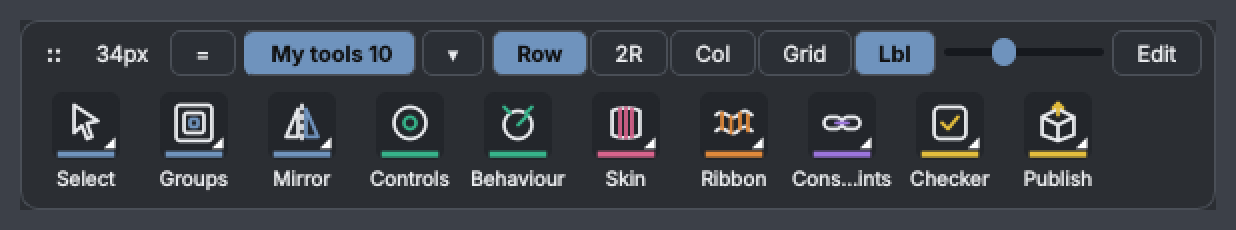
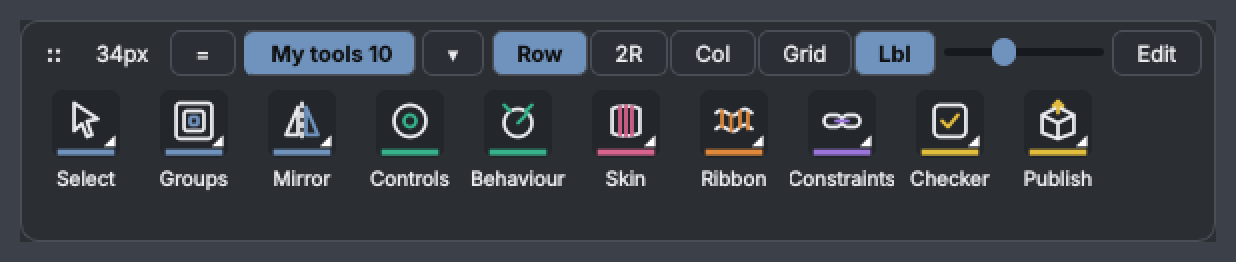
5.7.9 (in progress): narrower bar column, names on two lines, strip beside a column (A/B)
Claude-Session: https://claude.ai/code/session_01XEQS6GUEdNtS6ejnva6duF

diff --git a/gus_rigtool/newui/favourites.py b/gus_rigtool/newui/favourites.py
@@ -577,7 +577,7 @@ class FavBar(QtWidgets.QWidget):
         root.setSpacing(5)
         shape = self.shape()
         lab = self.labels()                              # a column: one even width for everything (5.7.9, Gus)
-        self.rail = max((max(self.wanted_size() + 6, 52) if lab else self.wanted_size() + 4), 76)
+        self.rail = max((max(self.wanted_size() + 6, 52) if lab else self.wanted_size() + 6), 50)
         self.chrome = self._chrome(shape)
         root.addWidget(self.chrome)
         self.tiles = QtWidgets.QWidget()
@@ -640,8 +640,9 @@ class FavBar(QtWidgets.QWidget):
             shown.append(current())
         for name in shown:
             pill = self._pill(name)
-            if col:
-                pill.setText(name[:7] + "…" if len(name) > 8 else name)
+            if col:                                       # the mock-up's short pills (BLK, POL...)
+                words = [w for w in name.replace("&", " ").split() if w]
+                pill.setText("".join(w[0] for w in words).upper()[:3] if len(words) > 1 else name[:3].upper())
             pl.addWidget(pill)
         more = self._small("▾", "Every profile: All tools, one per area, yours - and New / Rename / Delete",
                            lambda: _exec(profile_menu(self), QtGui.QCursor.pos()))
@@ -653,11 +654,12 @@ class FavBar(QtWidgets.QWidget):
         ml.setSpacing(1)
         self.mode_buttons = {}
         for i, (key, text, tip) in enumerate(LAYOUTS):
-            b = self._small(text, tip, lambda k=key: self.set_shape(k), checkable=True)
+            b = self._small({"row": "R", "2r": "2", "col": "C", "grid": "G"}[key] if col else text, tip,
+                            lambda k=key: self.set_shape(k), checkable=True)
             b.setChecked(key == shape)
             self.mode_buttons[key] = b
             ml.addWidget(b, i // 2 if col else 0, i % 2 if col else i)
-        lb = self._small("Lbl", "Names under the tiles", lambda: (self._save(labels=not self.labels()),
+        lb = self._small("Aa" if col else "Lbl", "Names under the tiles", lambda: (self._save(labels=not self.labels()),
                                                                  self.build()), checkable=True)
         lb.setChecked(self.labels())
         ml.addWidget(lb, 2 if col else 0, 0 if col else 5, 1, 2 if col else 1)
@@ -676,7 +678,8 @@ class FavBar(QtWidgets.QWidget):
         self.slider.sliderReleased.connect(lambda: self.set_size(self.slider.value()))
         lay.addWidget(self.slider)
         if editable():
-            lay.addWidget(self._small("Done" if self.editing else "Edit", "Edit this profile: × takes one off; "
+            lay.addWidget(self._small(("✓" if col else "Done") if self.editing else ("✎" if col else "Edit"),
+                                      "Edit this profile: × takes one off; "
                                       "choose more in the menu", lambda: self.set_editing(not self.editing)))
         if col:
             box.setFixedWidth(self.rail)
@@ -684,9 +687,11 @@ class FavBar(QtWidgets.QWidget):
                 if b.parentWidget() is not top:
                     b.setSizePolicy(QtWidgets.QSizePolicy.Expanding, QtWidgets.QSizePolicy.Fixed)
                     b.setMinimumWidth(0)
-            th.setSpacing(2)
+            th.setSpacing(1)
             self.readout.setAlignment(Qt.AlignCenter)
             th.setStretch(1, 1)
+            for b in box.findChildren(QtWidgets.QToolButton):
+                b.setStyleSheet(b.styleSheet() + " QToolButton { padding: 2px 0px; }")
         return box
 
     def _small(self, text, tip, fn, checkable=False):
@@ -736,8 +741,7 @@ class FavBar(QtWidgets.QWidget):
             b.setFocusPolicy(Qt.NoFocus)                    # never takes Space / S / the viewport keys from Maya
             b.setIcon(QtGui.QIcon(tiles.pixmap(k, px, tiles.has_options(k))))
             b.setIconSize(QtCore.QSize(px, px))
-            b.setToolButtonStyle(Qt.ToolButtonTextUnderIcon if lab else Qt.ToolButtonIconOnly)
-            b.setText(label(k) if lab else "")
+            b.setToolButtonStyle(Qt.ToolButtonIconOnly)
             b.setFixedWidth(cell)
             b.setToolTip("%s - click: open it; right-click: its options" % label(k))
             b.setCursor(Qt.PointingHandCursor)
@@ -747,11 +751,25 @@ class FavBar(QtWidgets.QWidget):
             b.customContextMenuRequested.connect(lambda _pos, k=k: self.show_strip(k))
             self.buttons[k] = b
             w = b
+            if lab:                                         # the name under it, on up to two lines (5.7.9, Gus)
+                w = QtWidgets.QWidget()
+                tv = QtWidgets.QVBoxLayout(w)
+                tv.setContentsMargins(0, 0, 0, 0)
+                tv.setSpacing(1)
+                tv.addWidget(b, 0, Qt.AlignHCenter)
+                name = QtWidgets.QLabel(label(k))
+                name.setObjectName("gusFavName")
+                name.setWordWrap(True)
+                name.setAlignment(Qt.AlignHCenter | Qt.AlignTop)
+                name.setFixedWidth(cell)
+                name.setFixedHeight(name.fontMetrics().lineSpacing() * 2 + 2)
+                tv.addWidget(name)
             if self.editing:
+                inner = w
                 w = QtWidgets.QWidget()
                 g = QtWidgets.QGridLayout(w)
                 g.setContentsMargins(0, 0, 0, 0)
-                g.addWidget(b, 0, 0)
+                g.addWidget(inner, 0, 0)
                 x = QtWidgets.QToolButton()
                 x.setText("×")
                 x.setProperty("remove", k)
@@ -794,7 +812,7 @@ class FavBar(QtWidgets.QWidget):
         head.addWidget(title, 1)
         head.addWidget(self._small("×", "Close the options", self.hide_strip))
         lay.addLayout(head)
-        rows = option_rows(key)
+        rows = option_rows(key, stacked=self.vertical and STACKED_BESIDE["on"])
         body = QtWidgets.QWidget()
         bl = QtWidgets.QGridLayout(body)
         bl.setContentsMargins(0, 0, 0, 0)
@@ -816,6 +834,23 @@ class FavBar(QtWidgets.QWidget):
         if editable():
             foot.layout().addWidget(self._small("Remove", "Take it off this profile", lambda: toggle(key)))
         lay.addWidget(foot)
+        if self.vertical and STACKED_BESIDE["on"]:     # beside a column: narrow - the buttons two by two
+            btns = foot.findChildren(QtWidgets.QToolButton)
+            grid = QtWidgets.QWidget()
+            gl = QtWidgets.QGridLayout(grid)
+            gl.setContentsMargins(0, 0, 0, 0)
+            gl.setSpacing(4)
+            for i, bt in enumerate(btns):
+                if bt.text().startswith("All "):
+                    bt.setText("All %d  ›" % len(rows))
+                bt.setSizePolicy(QtWidgets.QSizePolicy.Expanding, QtWidgets.QSizePolicy.Fixed)
+                gl.addWidget(bt, i // 2, i % 2)
+            lay.replaceWidget(foot, grid)
+            foot.deleteLater()
+            self.strip.setFixedWidth(220)
+        else:
+            self.strip.setMinimumWidth(0)
+            self.strip.setMaximumWidth(16777215)
         self.strip.adjustSize()
         self.place_strip()
         self.strip.show()
@@ -900,6 +935,7 @@ def _QSS_VALUES():
             "FIELD": theme.FIELD}
 
 
+STACKED_BESIDE = {"on": False}                      # beside a column: names above their boxes (narrower)
 MAX_STRIP = 8                                       # options shown in the strip (the rest: 'All in Settings')
 
 _BAR_QSS = """
@@ -911,6 +947,7 @@ QToolButton#gusFavSmall, QToolButton#gusFavPill { background: #2b2f35; border: 1
     padding: 2px 7px; font-size: 11px; color: %(TXT)s; }
 QToolButton#gusFavSmall:checked, QToolButton#gusFavPill:checked { background: %(ACC)s; color: #111; font-weight: bold; }
 QToolButton#gusFavSmall:hover, QToolButton#gusFavPill:hover { border-color: %(ACC)s; }
+QLabel#gusFavName { font-size: 10px; color: %(TXT)s; }
 QToolButton#gusFavTile { background: transparent; border: none; padding: 1px; font-size: 10px; color: %(TXT)s; }
 QToolButton#gusFavTile:hover { background: rgba(255,255,255,0.08); border-radius: 6px; }
 QFrame#gusFavStrip { background: %(WIN)s; border-radius: 7px; }
@@ -922,7 +959,7 @@ QSlider::handle:horizontal { width: 12px; margin: -5px 0; border-radius: 6px; ba
 """
 
 
-def option_rows(key):
+def option_rows(key, stacked=False):
     """A tool's saved options as small controls (the ones its section in Settings shows); a change is saved at
     once and the tool's open page picks it up."""
     from gus_rigtool import registry
@@ -948,9 +985,9 @@ def option_rows(key):
             w.toggled.connect(lambda on, save=save: save(bool(on)))
         else:
             w = QtWidgets.QWidget()
-            h = QtWidgets.QHBoxLayout(w)
+            h = QtWidgets.QVBoxLayout(w) if stacked else QtWidgets.QHBoxLayout(w)   # stacked: the name above
             h.setContentsMargins(0, 0, 0, 0)
-            h.setSpacing(4)
+            h.setSpacing(1 if stacked else 4)
             h.addWidget(widgets.label(text, "dim", wrap=False))
             if kind == "choice":
                 c = QtWidgets.QComboBox()
